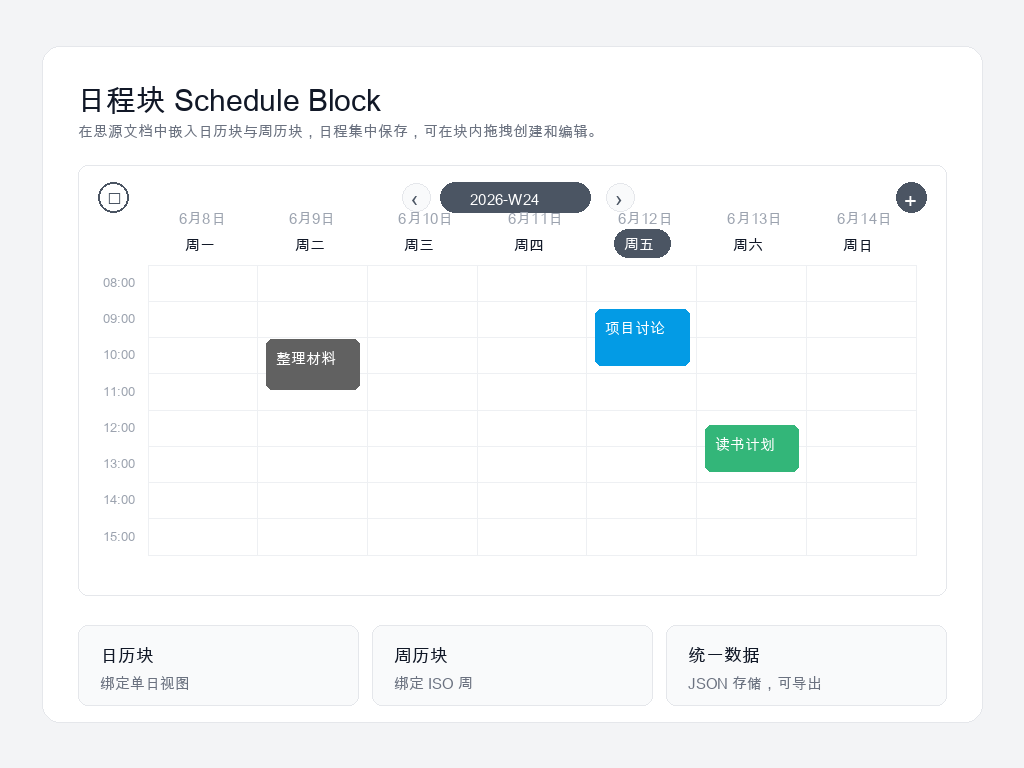
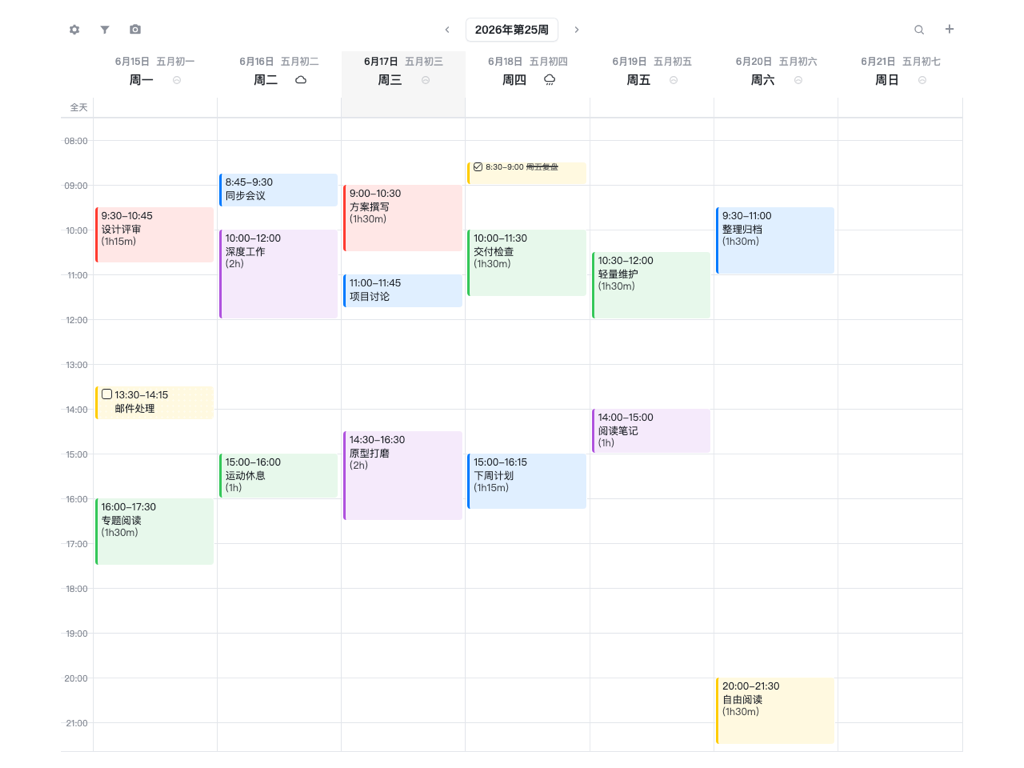
fix: refresh theme colors and update assets (v1.6.1)

diff --git a/src/widget/main.ts b/src/widget/main.ts
@@ -83,6 +83,7 @@ let panelMode = false;
 let panelCurrentAnchor = fmtDate(new Date());
 let lastClickedMoreLink: HTMLElement | null = null;
 let interactionPrimeRaf = 0;
+let eventColorRefreshTimer = 0;
 
 function lastColor(): string {
   try {
@@ -313,6 +314,18 @@ function applyEventColorVars(el: HTMLElement, color: string): void {
   el.style.setProperty("--cb-event-bg-color", mixColors(color, themeBg, bgWeight));
   el.style.setProperty("--cb-event-hover-bg-color", mixColors(color, themeBg, hoverWeight));
   el.style.setProperty("--cb-event-text-color", themeOnBg);
+}
+
+function refreshRenderedEventColors(): void {
+  window.clearTimeout(eventColorRefreshTimer);
+  eventColorRefreshTimer = window.setTimeout(() => {
+    for (const [eventId, el] of eventEls) {
+      const event = calendar?.getEventById(eventId);
+      const color = String(event?.backgroundColor || el.style.getPropertyValue("--cb-event-color") || lastColor());
+      applyEventColorVars(el, color);
+      scheduleAdjustEventDuration(el);
+    }
+  }, 0);
 }
 
 function applyValuesToEvent(event: EventApi, values: PopoverValues): void {
@@ -2203,7 +2216,7 @@ function primeCalendarInteraction(target: EventTarget | null = null): void {
 /* ---------- 启动 ---------- */
 
 async function boot(): Promise<void> {
-  initThemeBridge();
+  initThemeBridge(refreshRenderedEventColors);
 
   const params = new URLSearchParams(window.location.search);
   panelMode = params.get("mode") === "panel";
@@ -2390,6 +2403,7 @@ async function boot(): Promise<void> {
     }
   });
   calendar.render();
+  refreshRenderedEventColors();
 
   const popoverObserver = new MutationObserver((mutations) => {
     for (const mutation of mutations) {

diff --git a/src/widget/theme.ts b/src/widget/theme.ts
@@ -22,7 +22,7 @@ const VARS = [
   "--b3-dialog-shadow"
 ];
 
-export function initThemeBridge(): void {
+export function initThemeBridge(onSync?: () => void): void {
   let parentDoc: Document | null = null;
   try {
     parentDoc = window.parent !== window ? window.parent.document : null;
@@ -49,6 +49,7 @@ export function initThemeBridge(): void {
     if (mode) {
       document.documentElement.setAttribute("data-theme-mode", mode);
     }
+    onSync?.();
   };
 
   sync();

diff --git a/CHANGELOG.md b/CHANGELOG.md
@@ -1,5 +1,11 @@
 # Changelog
 
+## 1.6.1 (2026-06-17)
+
+- 修复日程块切换到夜间主题后，已渲染的旧事件仍保留浅色背景的问题；现在主题同步后会重新计算当前视图事件块配色。
+- 更新插件图标为铺满画布的 Google Calendar 风格图标，避免在集市列表中显得过小。
+- 更新集市预览图，改为使用匿名示例数据生成的真实周视图截图。
+
 ## 1.6.0 (2026-06-16)
 
 - 新增日程关键词搜索：在新建按钮左侧增加顶栏内联搜索框，可按标题或备注即时过滤当前日 / 周 / 月视图中的日程，并可与颜色筛选同时使用。